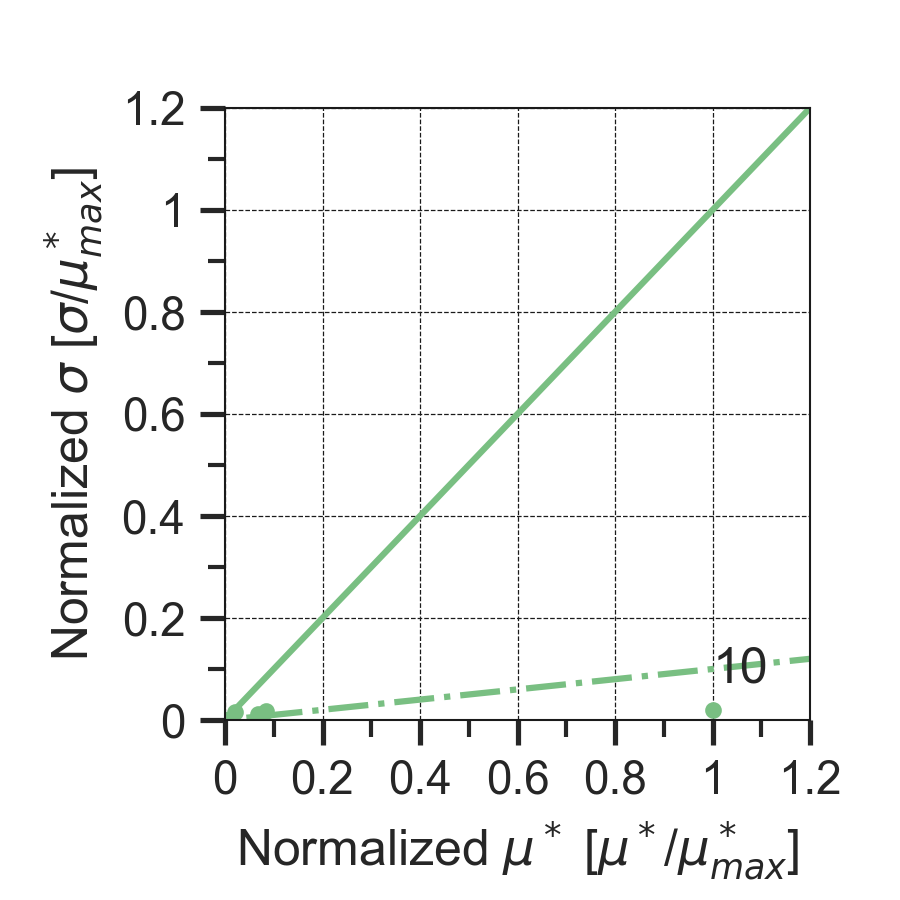
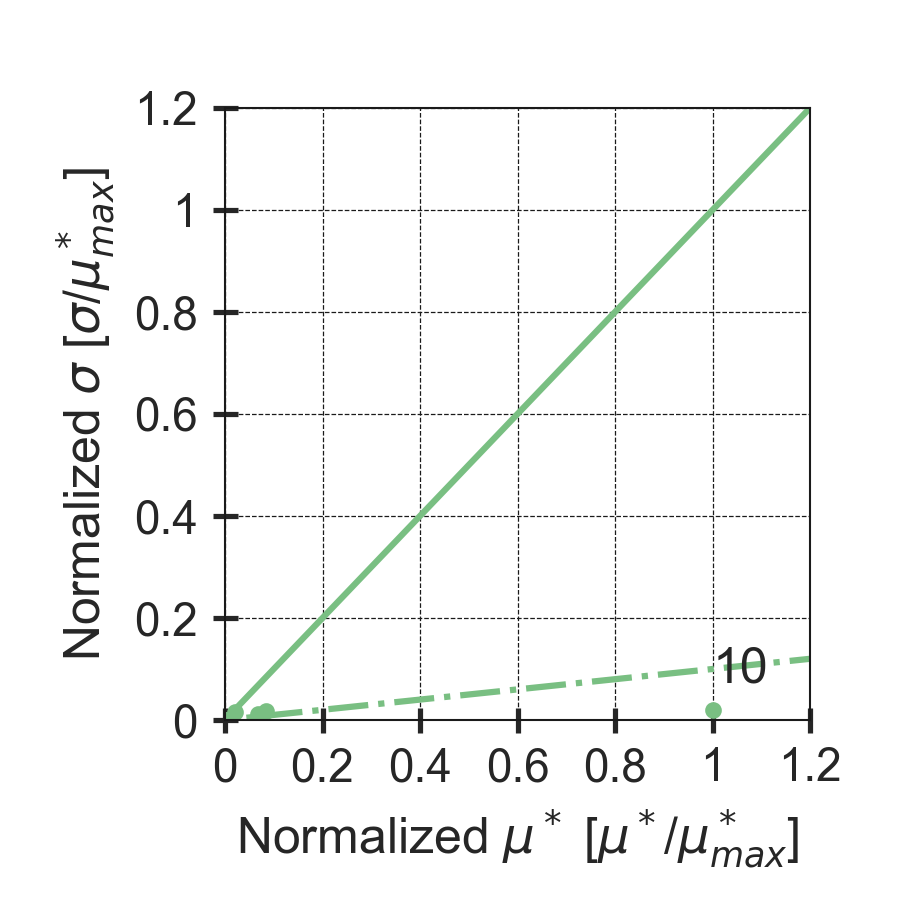
bwaise figure formatting update

diff --git a/exposan/bwaise/analyses.py b/exposan/bwaise/analyses.py
@@ -83,30 +83,35 @@ def plot_box(model, ID, color, metrics, ax_dct, kind='horizontal',
         ax.set(xlabel='', xlim=(0, 1), xticks=ticks)
         ax.set_yticklabels([i.name.lstrip('Total ') for i in metrics], fontsize=20)
         ax.set_xticklabels([f'{i:.0%}' for i in ticks], fontsize=20)
-        
-        ax.tick_params(axis='x', direction='inout')
+        ax.xaxis.set_minor_locator(AutoMinorLocator(2))
+        ax.tick_params(axis='both', which='both', direction='inout')        
+
         ax2 = ax.secondary_xaxis('top')
-        ax2.tick_params(axis='x', direction='in')
         ax2.xaxis.set_major_formatter(plt.NullFormatter())
+        ax2.xaxis.set_minor_locator(AutoMinorLocator(2))
+        ax2.tick_params(axis='x', which='both', direction='in')
+        fig.subplots_adjust(left=0.2, bottom=0.25)
     else:
         fig, ax = s.plot_uncertainties(model, x_axis=metrics, kind='box',
                                        center_kws={'color': color, 'width': 0.6,
                                                    'whis': whis, 'sym': sym})
         ax.get_legend().remove()
         fig.set_figwidth(2.5)
+        ticks = np.arange(0, 1.2, 0.2)
         ax.set_xticklabels([i.name.lstrip('Total ') for i in metrics], fontsize=20)
         for label in ax.get_xticklabels():
-            label.set_rotation(30)
+            label.set_rotation(90)
         ax.set(ylabel='', ylim=(0, 1), yticks=ticks)
         ax.set_yticklabels([f'{i:.0%}' for i in ticks], fontsize=20)
+        ax.yaxis.set_minor_locator(AutoMinorLocator(2))
+        ax.tick_params(axis='both', which='both', direction='inout')
         
-        ax.tick_params(axis='x', direction='inout')
-        ax2 = ax.secondary_xaxis('top')
-        ax2.tick_params(axis='x', direction='in')
-        ax2.xaxis.set_major_formatter(plt.NullFormatter())
- 
-    ax.xaxis.set_minor_locator(AutoMinorLocator(2))
-    fig.subplots_adjust(left=0.2, bottom=0.25)
+        ax2 = ax.secondary_yaxis('right')
+        ax2.yaxis.set_major_formatter(plt.NullFormatter())
+        ax2.yaxis.set_minor_locator(AutoMinorLocator(2))
+        ax2.tick_params(axis='y', which='both', direction='in')
+        fig.subplots_adjust(left=0.35, bottom=0.3)
+
     fig.savefig(os.path.join(figures_path, f'sys{ID}_recoveries.png'), dpi=300)
 
     return fig, ax
@@ -123,17 +128,32 @@ def plot_kde(model, ID, color, metrics):
                                                'whis': (5, 95),
                                                'width': 0.4,
                                                'sym': ''})
-    for i in (ax[0], ax[1]):
+
+    ax0, ax1, ax2 = fig.axes # KDE, top box, right box
+    plot_minor_ticks_and_grid(ax0, nx=2, ny=2)
+    ax0x = ax0.secondary_xaxis('top')
+    ax0x.xaxis.set_minor_locator(AutoMinorLocator(2))
+    ax0y = ax0.secondary_yaxis('right')
+    ax0y.yaxis.set_minor_locator(AutoMinorLocator(2))
+    for ax in (ax0, ax0x, ax0y):
+        ax.tick_params(axis='both', which='both', direction='inout')
+
+    for i in (ax0, ax1):
         i.set_xlim(0, 60)
         i.set_xticks((np.arange(0, 70, 10)))
-    for i in (ax[0], ax[2]):
+    for i in (ax0, ax2):
         i.set_ylim(-20, 140)
         i.set_yticks((np.arange(-20, 160, 20)))
-    for txt in ax[0].get_xticklabels()+ax[0].get_yticklabels():
+    for txt in ax0.get_xticklabels()+ax0.get_yticklabels():
         txt.set_fontsize(20)
+    ax0x.set_xticklabels('')
+    ax0y.set_yticklabels('')
 
+    ax1.xaxis.set_visible(False)
+    ax1.spines.clear()
+    ax2.spines.clear()
+    ax2.yaxis.set_visible(False)
     fig.subplots_adjust(left=0.15)
-    plot_minor_ticks_and_grid(ax[0], nx=2, ny=2)
     # ax[0].yaxis.get_major_ticks()[-1].gridline.set_visible(False) # if want to remove a certain gridline
     fig.savefig(os.path.join(figures_path, f'sys{ID}_cost_emission.png'), dpi=300)
 
@@ -216,7 +236,8 @@ def plot_morris_scatter(model, morris_dct, combined_morris, color,
                 from adjustText import adjust_text
                 adjust_text(labels)
 
-        plot_minor_ticks_and_grid(ax, nx=2, ny=2)
+        plot_minor_ticks_and_grid(ax, nx=1, ny=1)
+        ax.tick_params(axis='both', which='both', direction='inout')
 
         if not plot_combined:
             fig.subplots_adjust(bottom=0.2, left=0.25)
@@ -250,7 +271,6 @@ def plot_morris_blank(ax_dct):
     par_dct = {k: getattr(temp.figure.subplotpars, k)
                for k in ('left', 'right', 'top', 'bottom')}
     fig.subplots_adjust(**par_dct)
-    # plot_minor_ticks_and_grid(ax, nx=2, ny=2)
     ax.set(xticks=(), yticks=(), xticklabels=(), yticklabels=())
     ax_dct['morris_blank'] = ax
     fig.savefig(os.path.join(figures_path, 'morris_blank.png'), dpi=300)
@@ -273,12 +293,12 @@ def plot_morris_scatter_all(models, morris_dct, combineds, RGBs):
 
         if n_model == 0:
             for n, ax in enumerate(axs):
-                ax.set_ylabel(model.metrics[n].name)
-        axs[-1].set_xlabel(f'System {ID}')
+                ax.set_ylabel(model.metrics[n].name, fontsize=14)
+        axs[-1].set_xlabel(f'System {ID}', fontsize=14)
 
     fig.tight_layout()
-    fig.supxlabel(r'Normalized $\mu^*$ [$\mu^*$/$\mu^*_{max}$]', fontsize=14, fontweight='bold')
-    fig.supylabel(r'Normalized $\sigma$ [$\sigma$/$\mu^*_{max}$]', fontsize=14, fontweight='bold')
+    fig.supxlabel(r'Normalized $\mu^*$ [$\mu^*$/$\mu^*_{max}$]', fontsize=20, fontweight='bold')
+    fig.supylabel(r'Normalized $\sigma$ [$\sigma$/$\mu^*_{max}$]', fontsize=20, fontweight='bold')
     fig.subplots_adjust(left=0.12, bottom=0.06)
     fig.savefig(os.path.join(figures_path, 'morris_normalized_combined.png'), dpi=300)
 
@@ -311,8 +331,8 @@ def plot_morris_bubble(combineds):
     for spine in ('top', 'right'):
         g.ax.spines[spine].set_visible(True)
 
-    g.ax.set_xlabel('Metric', fontsize=14, fontweight='bold')
-    g.ax.set_ylabel('Parameter', fontsize=14, fontweight='bold')
+    g.ax.set_xlabel('Metric', fontsize=20, fontweight='bold')
+    g.ax.set_ylabel('Parameter', fontsize=20, fontweight='bold')
 
     for label in g.ax.get_xticklabels():
         label.set_rotation(90)

diff --git a/exposan/bsm1/analyses.py b/exposan/bsm1/analyses.py
@@ -12,13 +12,6 @@ Please refer to https://github.com/QSD-Group/EXPOsan/blob/main/LICENSE.txt
 for license details.
 '''
 
-'''
-#TODO
-Other things that I think we might want to include:
-    - A figure in the SI (or just on GitHub) showing that we can converge to
-    similar steady-states conditions
-'''
-
 from time import time
 from qsdsan.utils import load_data, load_pickle, save_pickle
 from qsdsan.stats import plot_uncertainties, get_correlations
